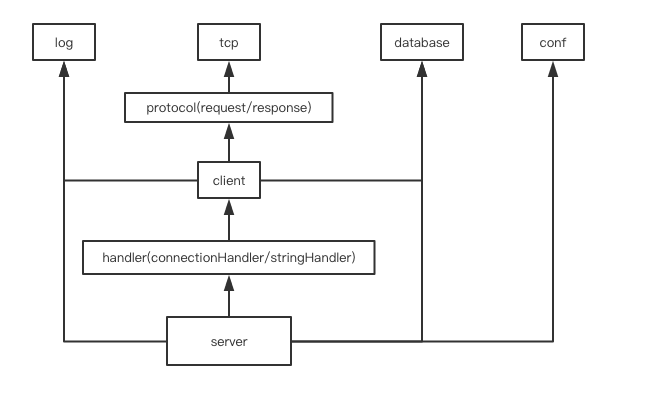
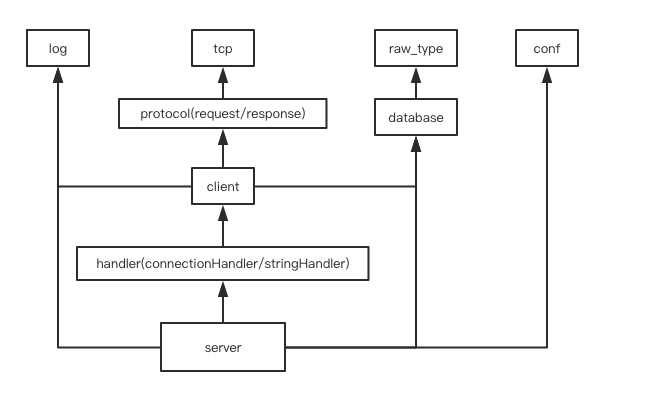
#28 modify some docs

Changed region(s): [[0.0307, 0.0606, 0.7373, 0.9394], [0.768, 0.0606, 0.9217, 0.8788], [0.3072, 0.8485, 0.3994, 0.8788]]

diff --git a/raw_type/sds.go b/raw_type/sds.go
@@ -1,4 +1,4 @@
-package rawtype
+package raw_type
 
 import "redis_go/database"
 
@@ -6,6 +6,3 @@ type Sds struct {
 	database.RedisObject
 }
 
-func (s *Sds) Set() {
-	
-}

diff --git a/raw_type/hash.go b/raw_type/hash.go
@@ -1,4 +1,4 @@
-package rawtype
+package raw_type
 
 type HashTable struct {
 }

diff --git a/z_docs/framework/framework.md b/z_docs/framework/framework.md
@@ -8,7 +8,16 @@ log处理
 tcp层，和tcp通信打交道，负责数据的接收和发送。
 
 ### database
+
 数据库，底层的数据库实现
+
+定义五种redis基本类型
+
+### raw_type
+
+redis 五种基本类型的具体某个encoding的实现
+
+string | list | hash | set | zset
 
 ### conf
 配置，关于配置的一些常量。
